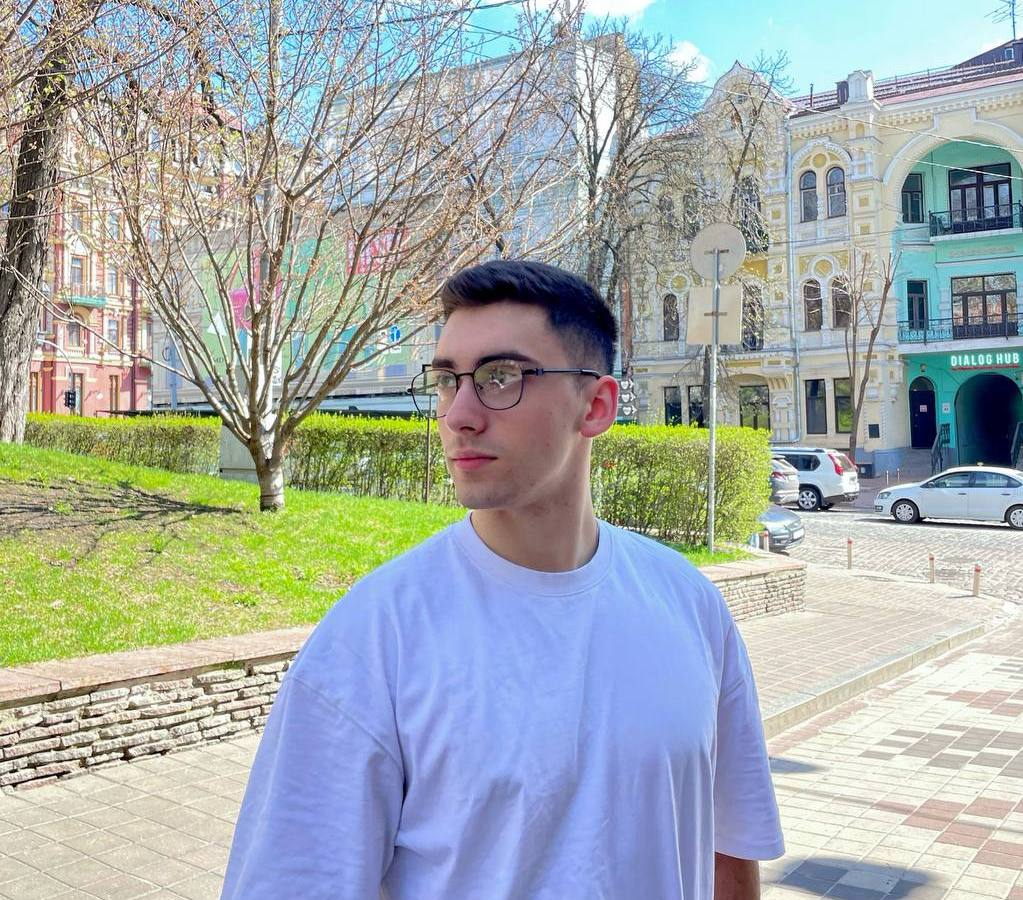
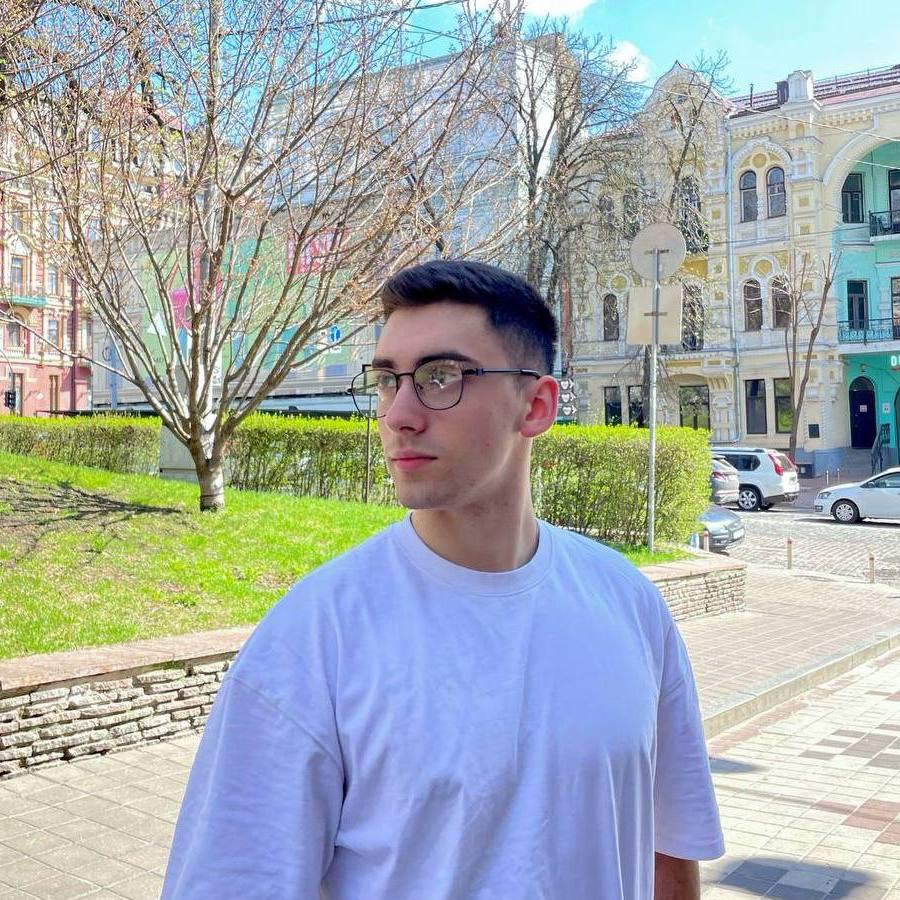
Add intro section

diff --git a/src/blocks/Intro.tsx b/src/blocks/Intro.tsx
@@ -4,13 +4,42 @@ import Container from '../layouts/Container';
 
 const Intro = () => {
   return (
-    <div className="h-screen min-h-[30rem]">
-      <Container>
-        <div className="w-max overflow-hidden rounded-full">
-          {/* <img src={ProfilePhoto} alt="Profile_photo" /> */}
+    <section className="pt-[4.375rem]">
+      <Container className="py-10 lg:py-20">
+        <div className="relative mx-auto mb-8 h-40 w-40 overflow-hidden rounded-full md:h-72 md:w-72 xl:mb-12">
+          <img src={ProfilePhoto} alt="Profile_photo" content="fill" />
+        </div>
+        <div className="mb-8 flex flex-col items-center text-center md:mb-10">
+          <h1 className="mb-8 text-xl font-bold md:w-[25rem] md:text-3xl xl:w-[35rem] xl:text-5xl">
+            I build websites and code with{' '}
+            <span className="from-orange-1 to-violet-1 bg-gradient-to-r bg-clip-text text-transparent">
+              passion!
+            </span>
+          </h1>
+          <h3 className="text-secondary text-lg font-normal md:w-[35rem] md:text-xl">
+            I’m a qualified and professional front-end web developer with strong experience in
+            creating websites. Good creative and analytical skills, team player with an eye for
+            details. Open to new challenges where I can create something beautiful.
+          </h3>
+        </div>
+        <div className="flex flex-col justify-center gap-2 text-center text-base font-bold md:flex-row md:gap-5 lg:text-lg">
+          <a
+            href="mailto:vasyl.voloshyn07@gmail.com"
+            className="from-orange-1 to-violet-1 hover:text-primary w-full rounded-xl bg-gradient-to-r px-7 py-4 text-black duration-200 hover:opacity-80 md:w-auto"
+          >
+            Get In Touch
+          </a>
+          <a
+            className="w-full rounded-xl border px-7 py-4 duration-200 hover:bg-white/70 hover:text-black md:w-auto"
+            href={process.env.REACT_APP_PDF_CV_LINK}
+            target="_blank"
+            download
+          >
+            Download CV
+          </a>
         </div>
       </Container>
-    </div>
+    </section>
   );
 };
 

diff --git a/src/layouts/Header.tsx b/src/layouts/Header.tsx
@@ -16,12 +16,12 @@ const Header: React.FC = () => {
   };
 
   return (
-    <header className="transparented bg-card fixed h-auto w-full shadow-md" ref={mobileNavRef}>
+    <header className="transparented bg-card fixed z-40 h-auto w-full shadow-md" ref={mobileNavRef}>
       <Container className="relative z-20 flex items-center justify-end py-5">
         <div className="text-primary absolute left-4 top-1/2 z-30 -translate-y-1/2 text-xl font-bold md:text-3xl">
           VoloshynV
         </div>
-        <nav className="text-secondary hidden text-xl md:flex md:space-x-8 xl:space-x-12">
+        <nav className="text-primary hidden text-xl md:flex md:space-x-8 xl:space-x-12">
           {HEADER_NAV_ITEMS.map((navItem: HeaderNavItem, index: number) => (
             <a key={`NavItem ${index}`} href={navItem.href} className="hover:text-secondary">
               {navItem.title}
@@ -39,7 +39,7 @@ const Header: React.FC = () => {
       </Container>
       <nav
         className={twMerge(
-          'bg-card text-secondary ease absolute -top-[10rem] z-10 flex w-full flex-col items-center space-y-3 pb-4 text-base font-normal shadow-md duration-300 md:hidden md:text-xl',
+          'bg-card text-primary ease absolute -top-[10rem] z-10 flex w-full flex-col items-center space-y-3 pb-4 text-base font-normal shadow-md duration-300 md:hidden md:text-xl',
           isOpen && 'top-full',
         )}
       >

diff --git a/tailwind.config.js b/tailwind.config.js
@@ -3,12 +3,16 @@ export default {
   content: ['./src/**/*.{js,jsx,ts,tsx}'],
   theme: {
     extend: {
-      colors: {},
+      colors: {
+        'orange-1': '#FF8660',
+        'violet-1': '#9A33FF',
+      },
       backgroundColor: (theme) => ({
         ...theme('colors'),
         primary: '#161513',
         secondary: '#8491a0',
         card: '#2a2a2a',
+        'gradient-primary': 'bg-gradient-to',
       }),
       textColor: (theme) => ({
         ...theme('colors'),
@@ -21,6 +25,9 @@ export default {
         primary: '#333333',
         secondary: '#4d4d4d',
       }),
+      backgroundImage: {
+        'gradient-primary': ' bg-gradient-to-r from-cyan-500 to-blue-500',
+      },
     },
   },
   plugins: [],
